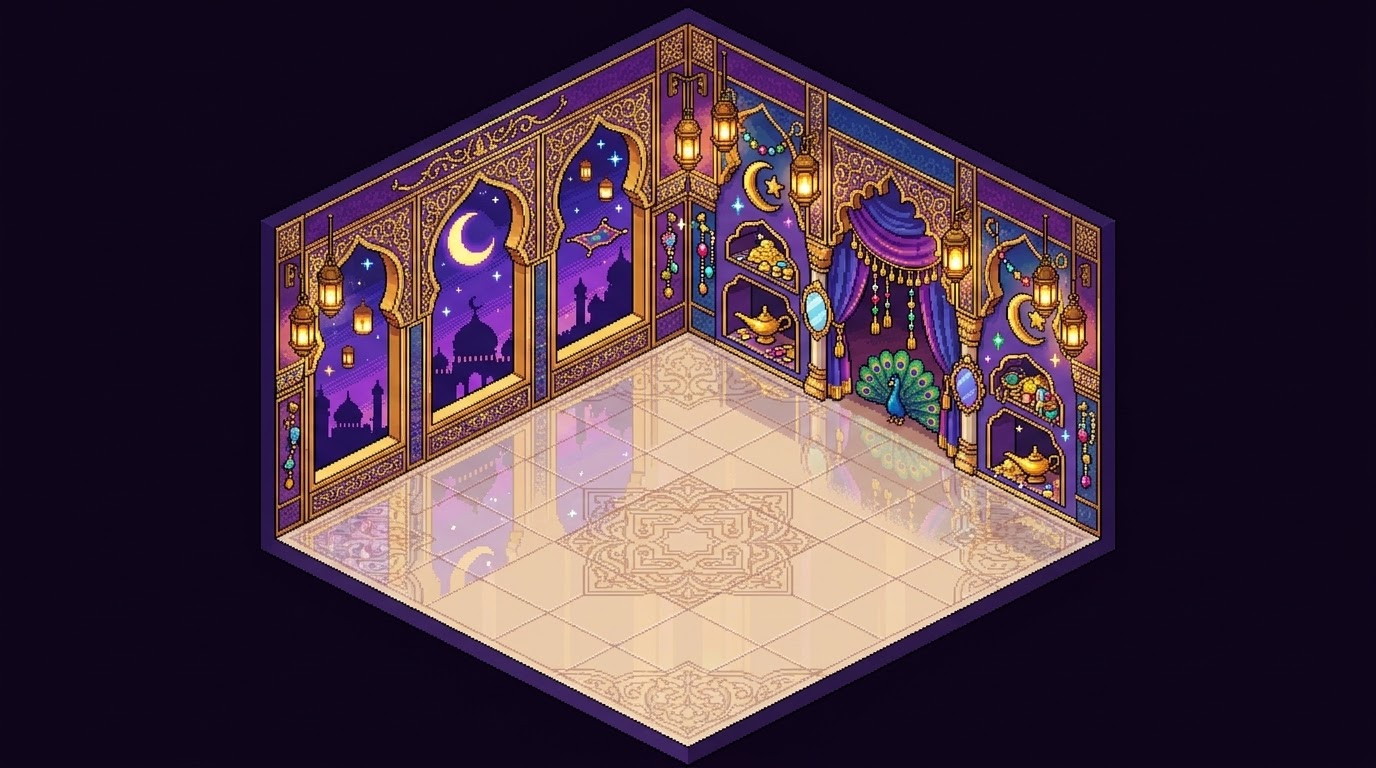
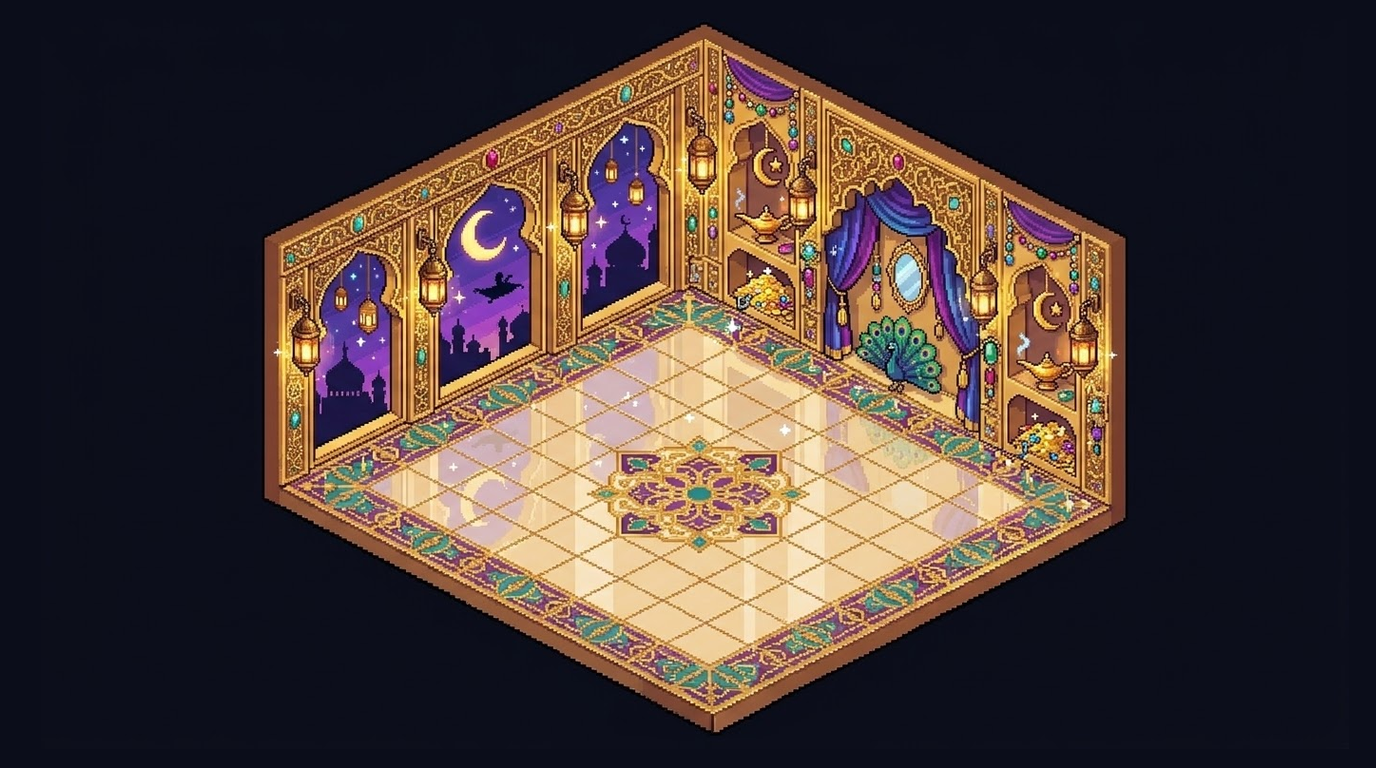
背景の床をグリッドに合わせる tools/fit_room.py を追加し、アラビアに適用した
背景は生成物で、床の菱形が game/main.js のグリッドとずれている。実測すると
31テーマ中16テーマが床幅 673px(目標 640px = +5.2%)でぴったり同じ値だった。
生成のばらつきではなく、生成側がその寸法でしか描けないということ。実際アラビアを
4回作り直しても 673 / 675 / 673 / 681px と同じ所に戻り、プロンプトに
「640pxちょうど」「640より広ければ縮めよ」と数値と検算を書いても動かなかった。

そこで幾何は生成に求めず、画像側で合わせる。一様縮小と平行移動しかしないので
色もデザインも解像度も変わらない。合わせ方は
  1. シルエットの左右端 = 床の左右角として、幅を 640px にする
  2. 左端をグリッドの左角 x=197 に合わせる
  3. グリッドの右下辺に床上面の辺を重ねる(スカート厚は明るさの跳ねから測って引く)
アラビアは 673px/+9.8px → 640px/-0.3px になった。

Stitch のダウンロードURLは既定でプレビュー(512x286)を返す。`=s2048` を付けると
フル解像度(1376x768)が取れる。付け忘れると背景が半分の解像度になって甘くなる。

diff --git a/tools/fit_room.py b/tools/fit_room.py
@@ -1,0 +1,125 @@
+#!/usr/bin/env python3
+"""部屋の背景画像を拡縮＋平行移動して、床をゲームのグリッドに合わせる。
+
+    測るだけ: python3 tools/fit_room.py <theme>
+    書き込む: python3 tools/fit_room.py <theme> --apply
+    別画像から: python3 tools/fit_room.py <theme> --from <path> --apply
+
+なぜ画像を動かすのか:
+  背景は生成物で、床の菱形が game/main.js のグリッドと数十pxずれる。生成し直しても
+  ピクセル座標は守られない(実測: 幅 673px / 675px と2回とも 5% 大きいまま)。
+  絵そのものは良いので、**デザインには触れず幾何だけ直す**。拡縮と平行移動しかしないので
+  色も構図も変わらない。
+
+合わせ方:
+  1. 横幅: シルエットの左端〜右端が、グリッドの左角〜右角(640px)になるよう一様に拡縮する。
+     壁は床の角の真上に立つので、シルエットの左右端 = 床の左右角として使える。
+  2. 横位置: 左端をグリッドの左角(x=197)に合わせる。
+  3. 縦位置: グリッドの右下辺(右角→手前角)に、床上面の右下辺を重ねる。
+     機械的に取れるのはシルエットの下端(スカートの下端)なので、下端から上へ明るさが
+     跳ねる所までをスカート厚として引く。
+
+注意:
+  背景は setDisplaySize(1024,572) で引き伸ばして描かれる。測るのはキャンバス座標で行い、
+  書き込みは元解像度で行う。
+"""
+import os, re, sys
+import numpy as np
+from PIL import Image
+
+ROOT = os.path.dirname(os.path.dirname(os.path.abspath(__file__)))
+SKIRT_PROBE = 40      # 下端から上へ何px ぶん明るさを見るか
+SKIRT_JUMP = 135      # 明るさの合計がこれ以上跳ねたらスカート→床上面の境目
+
+
+def grid():
+    src = open(os.path.join(ROOT, 'game', 'main.js'), encoding='utf-8').read()
+    W, H, GU, GV = (int(x) for x in re.search(
+        r'const W = (\d+), H = (\d+), GU = (\d+), GV = (\d+)', src).groups())
+    iso = {k: float(v) for k, v in re.findall(r'(Bx|By|ux|uy|vx|vy):\s*(-?[\d.]+)', src)[:6]}
+    vmax = (GV - 1) / GV      # 左下辺は1列ぶん浅い(床は 12 x 11)
+    def uv(u, v):
+        return ((iso['Bx'] + u * iso['ux'] + v * iso['vx']) * W,
+                (iso['By'] + u * iso['uy'] + v * iso['vy']) * H)
+    return W, H, uv(0, 0), uv(1, 0), uv(1, vmax), uv(0, vmax)
+
+
+def probe(arr):
+    """(左端x, 右端x, 右下辺のシルエット下端がグリッド線から何px下か, スカート厚)"""
+    bg = arr[3, 3]
+    mask = np.abs(arr - bg).sum(axis=2) > 60
+    W = arr.shape[1]
+    xs = [x for x in range(W) if mask[:, x].any()]
+    if not xs:
+        return None
+    return xs[0], xs[-1], mask
+
+
+def edge_gap(arr, mask, R, F):
+    slope = (F[1] - R[1]) / (F[0] - R[0])
+    dys, skirts = [], []
+    for x in range(int(F[0]) + 20, int(R[0]) - 10, 2):
+        col = np.nonzero(mask[:, x])[0]
+        if not len(col):
+            continue
+        ybot = col[-1]
+        dys.append(ybot - (R[1] + (x - R[0]) * slope))
+        lum = [int(arr[y, x].sum()) for y in range(max(0, ybot - SKIRT_PROBE), ybot + 1)][::-1]
+        t = next((i for i in range(1, len(lum)) if lum[i] - lum[0] > SKIRT_JUMP), None)
+        if t:
+            skirts.append(t)
+    if not dys:
+        return None, None
+    return float(np.median(dys)), (float(np.median(skirts)) if skirts else 0.0)
+
+
+def main():
+    if len(sys.argv) < 2:
+        print(__doc__); return
+    theme = sys.argv[1]
+    apply_ = '--apply' in sys.argv
+    srcp = sys.argv[sys.argv.index('--from') + 1] if '--from' in sys.argv else None
+    dst = os.path.join(ROOT, 'assets', f'room-{theme}.png')
+    img = Image.open(srcp or dst).convert('RGB')
+    W, H, A, R, F, D = grid()
+    target_w = R[0] - D[0]                       # 左角→右角 = 640px
+
+    def measure(im):
+        arr = np.asarray(im.convert('RGB').resize((W, H))).astype(int)
+        xl, xr, mask = probe(arr)
+        gap, skirt = edge_gap(arr, mask, R, F)
+        return xl, xr, gap, skirt
+
+    xl, xr, gap, skirt = measure(img)
+    scale = target_w / (xr - xl)
+    print(f'{theme}: 幅 {xr-xl}px → 目標 {target_w:.0f}px  (倍率 {scale:.4f})')
+    print(f'  右下辺: 下端 {gap:+.1f}px / スカート {skirt:.0f}px → 上面 {gap-skirt:+.1f}px ずれ')
+
+    # 元解像度で「拡縮 → 貼り直し」。キャンバス基準の量を元解像度へ換算する
+    kx, ky = img.width / W, img.height / H
+    nw, nh = max(1, round(img.width * scale)), max(1, round(img.height * scale))
+    small = img.resize((nw, nh), Image.LANCZOS)
+    bgc = tuple(np.asarray(img)[3, 3].tolist())
+    canvas = Image.new('RGB', (img.width, img.height), bgc)
+    # まず中央に置いてから、実測でぴったりに追い込む
+    ox, oy = (img.width - nw) // 2, (img.height - nh) // 2
+    for _ in range(4):
+        t = canvas.copy(); t.paste(small, (ox, oy))
+        xl2, xr2, gap2, skirt2 = measure(t)
+        dx = (D[0] - xl2) * kx                    # 左端をグリッドの左角へ
+        dy = -(gap2 - skirt2) * ky                # 床上面の辺をグリッド線へ
+        if abs(dx) < 0.6 and abs(dy) < 0.6:
+            break
+        ox += round(dx); oy += round(dy)
+    out = canvas.copy(); out.paste(small, (ox, oy))
+    xl3, xr3, gap3, skirt3 = measure(out)
+    print(f'  合わせた後: 幅 {xr3-xl3}px / 左端 x={xl3} (目標 {D[0]:.0f}) / '
+          f'上面のずれ {gap3-skirt3:+.1f}px')
+    if not apply_:
+        print('  (--apply を付けると書き込みます)'); return
+    out.save(dst)
+    print(f'  書き込み: {dst}')
+
+
+if __name__ == '__main__':
+    main()
